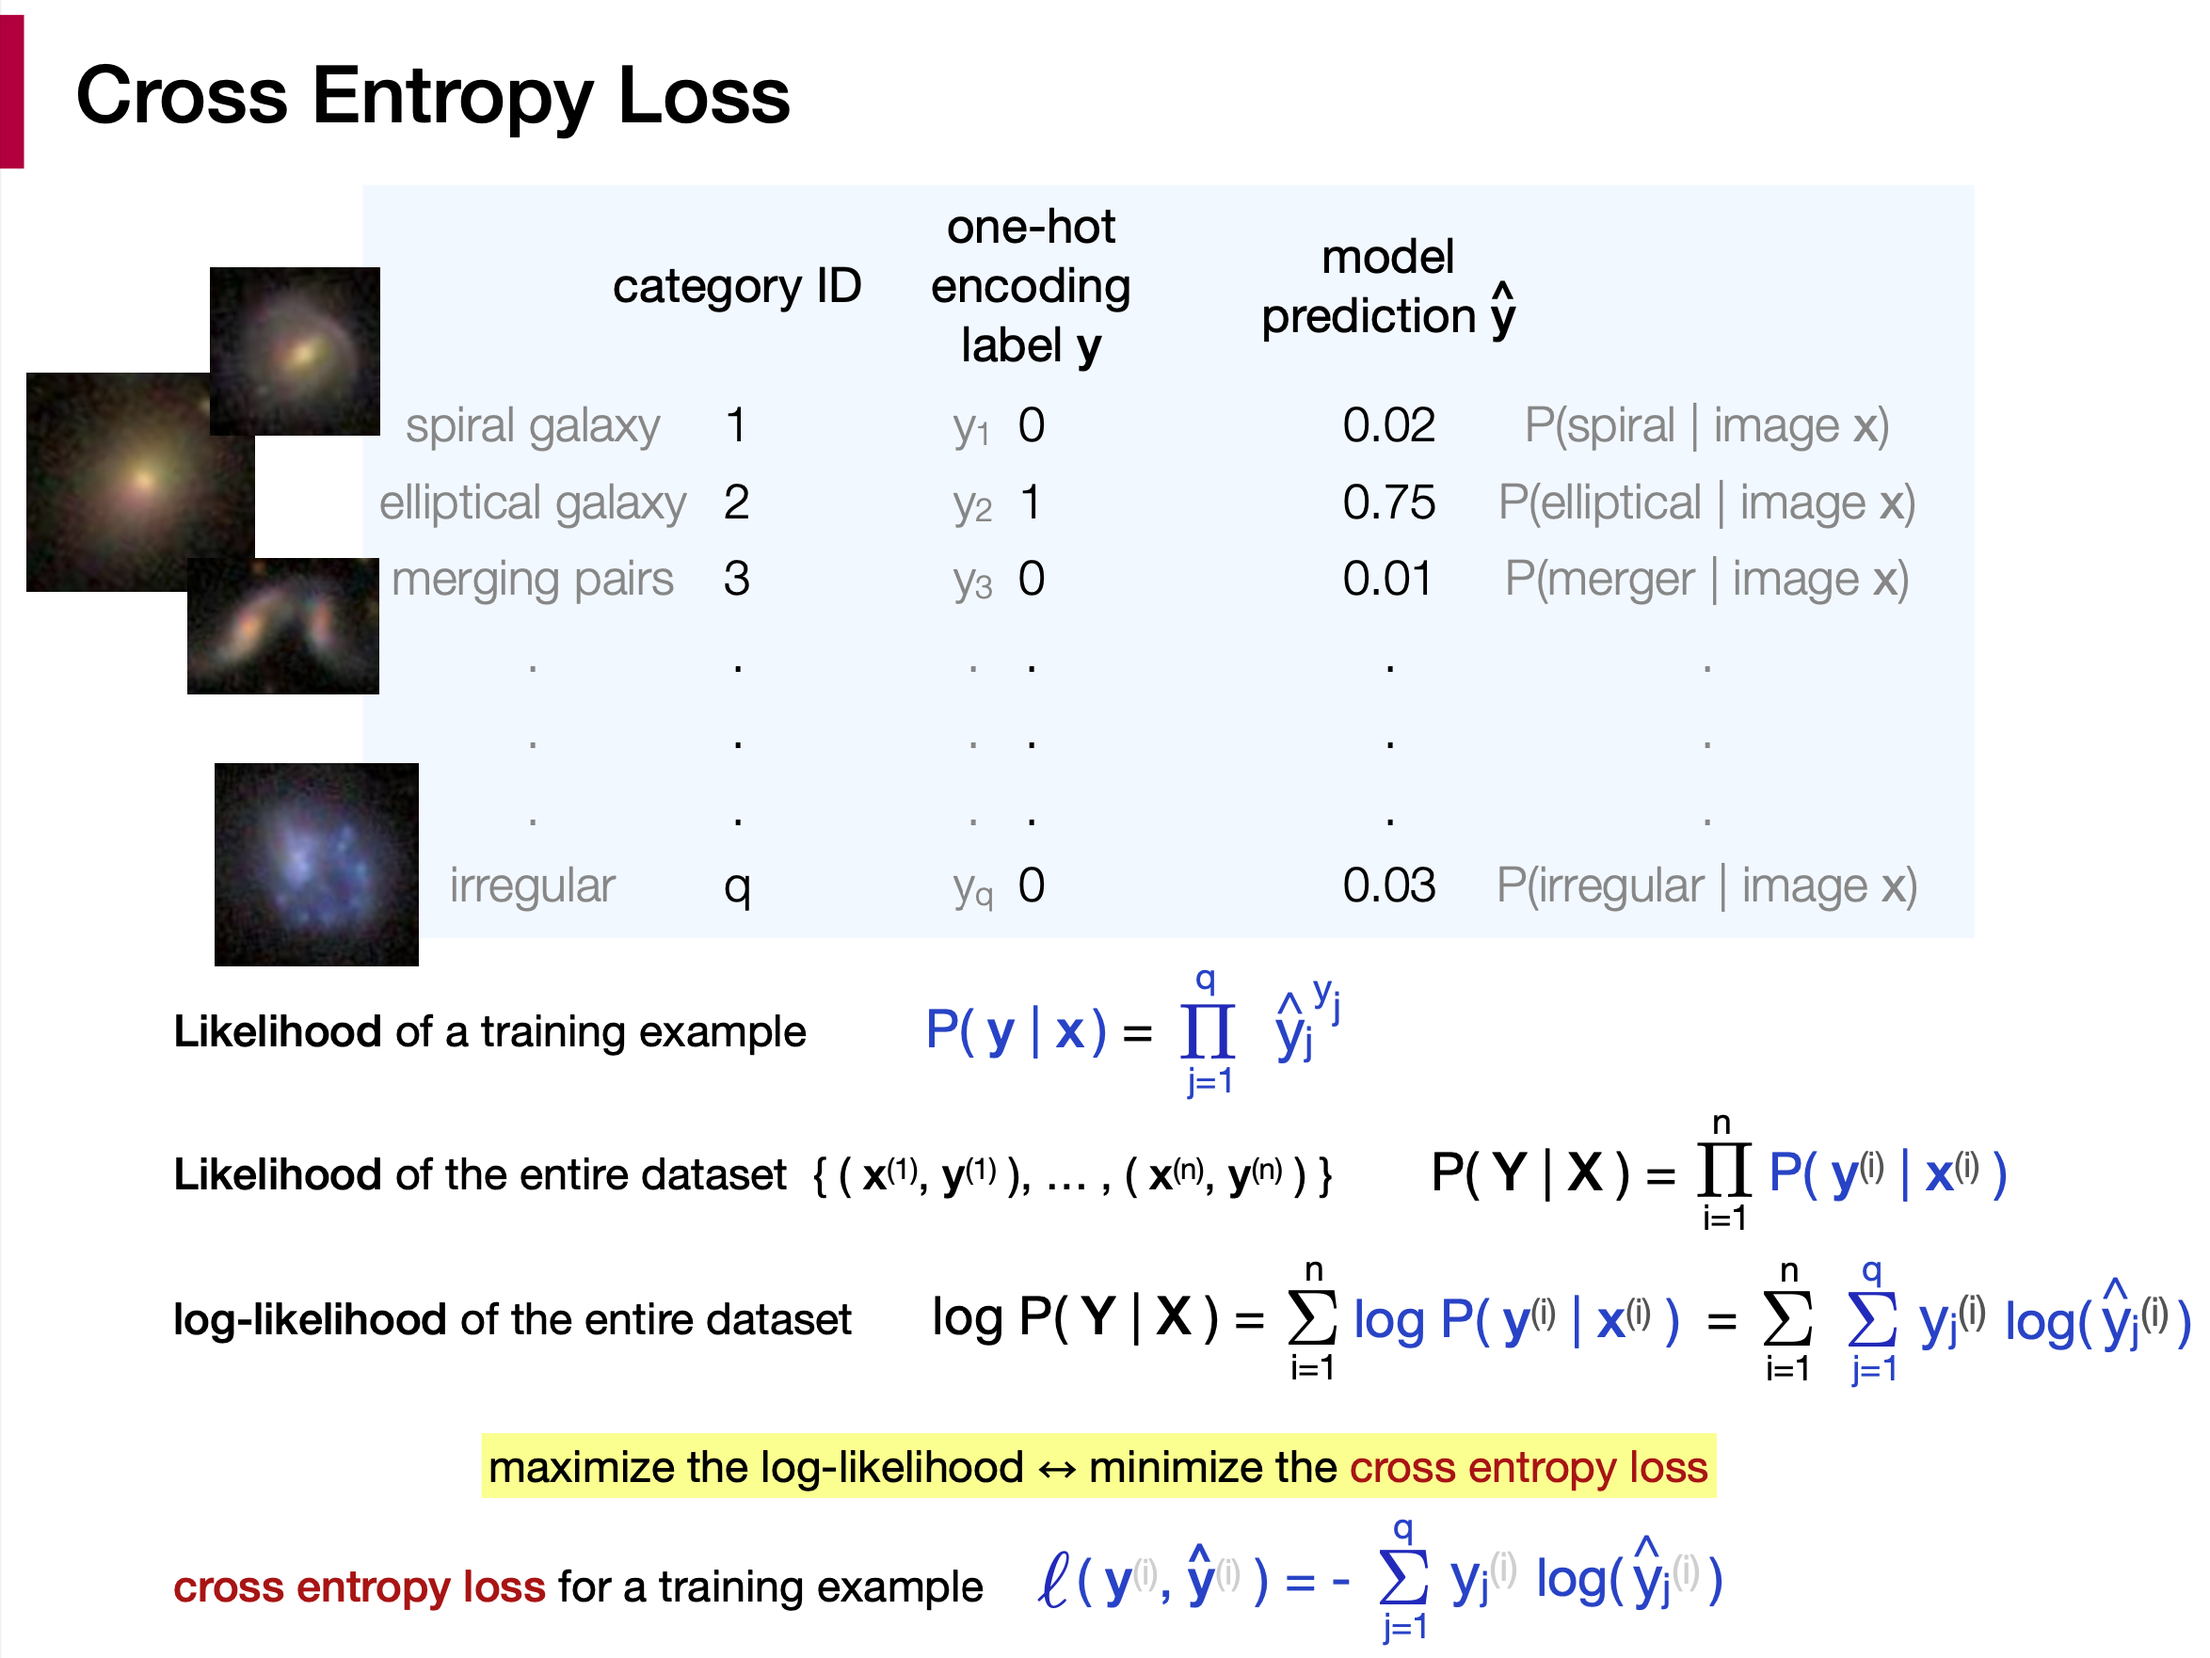
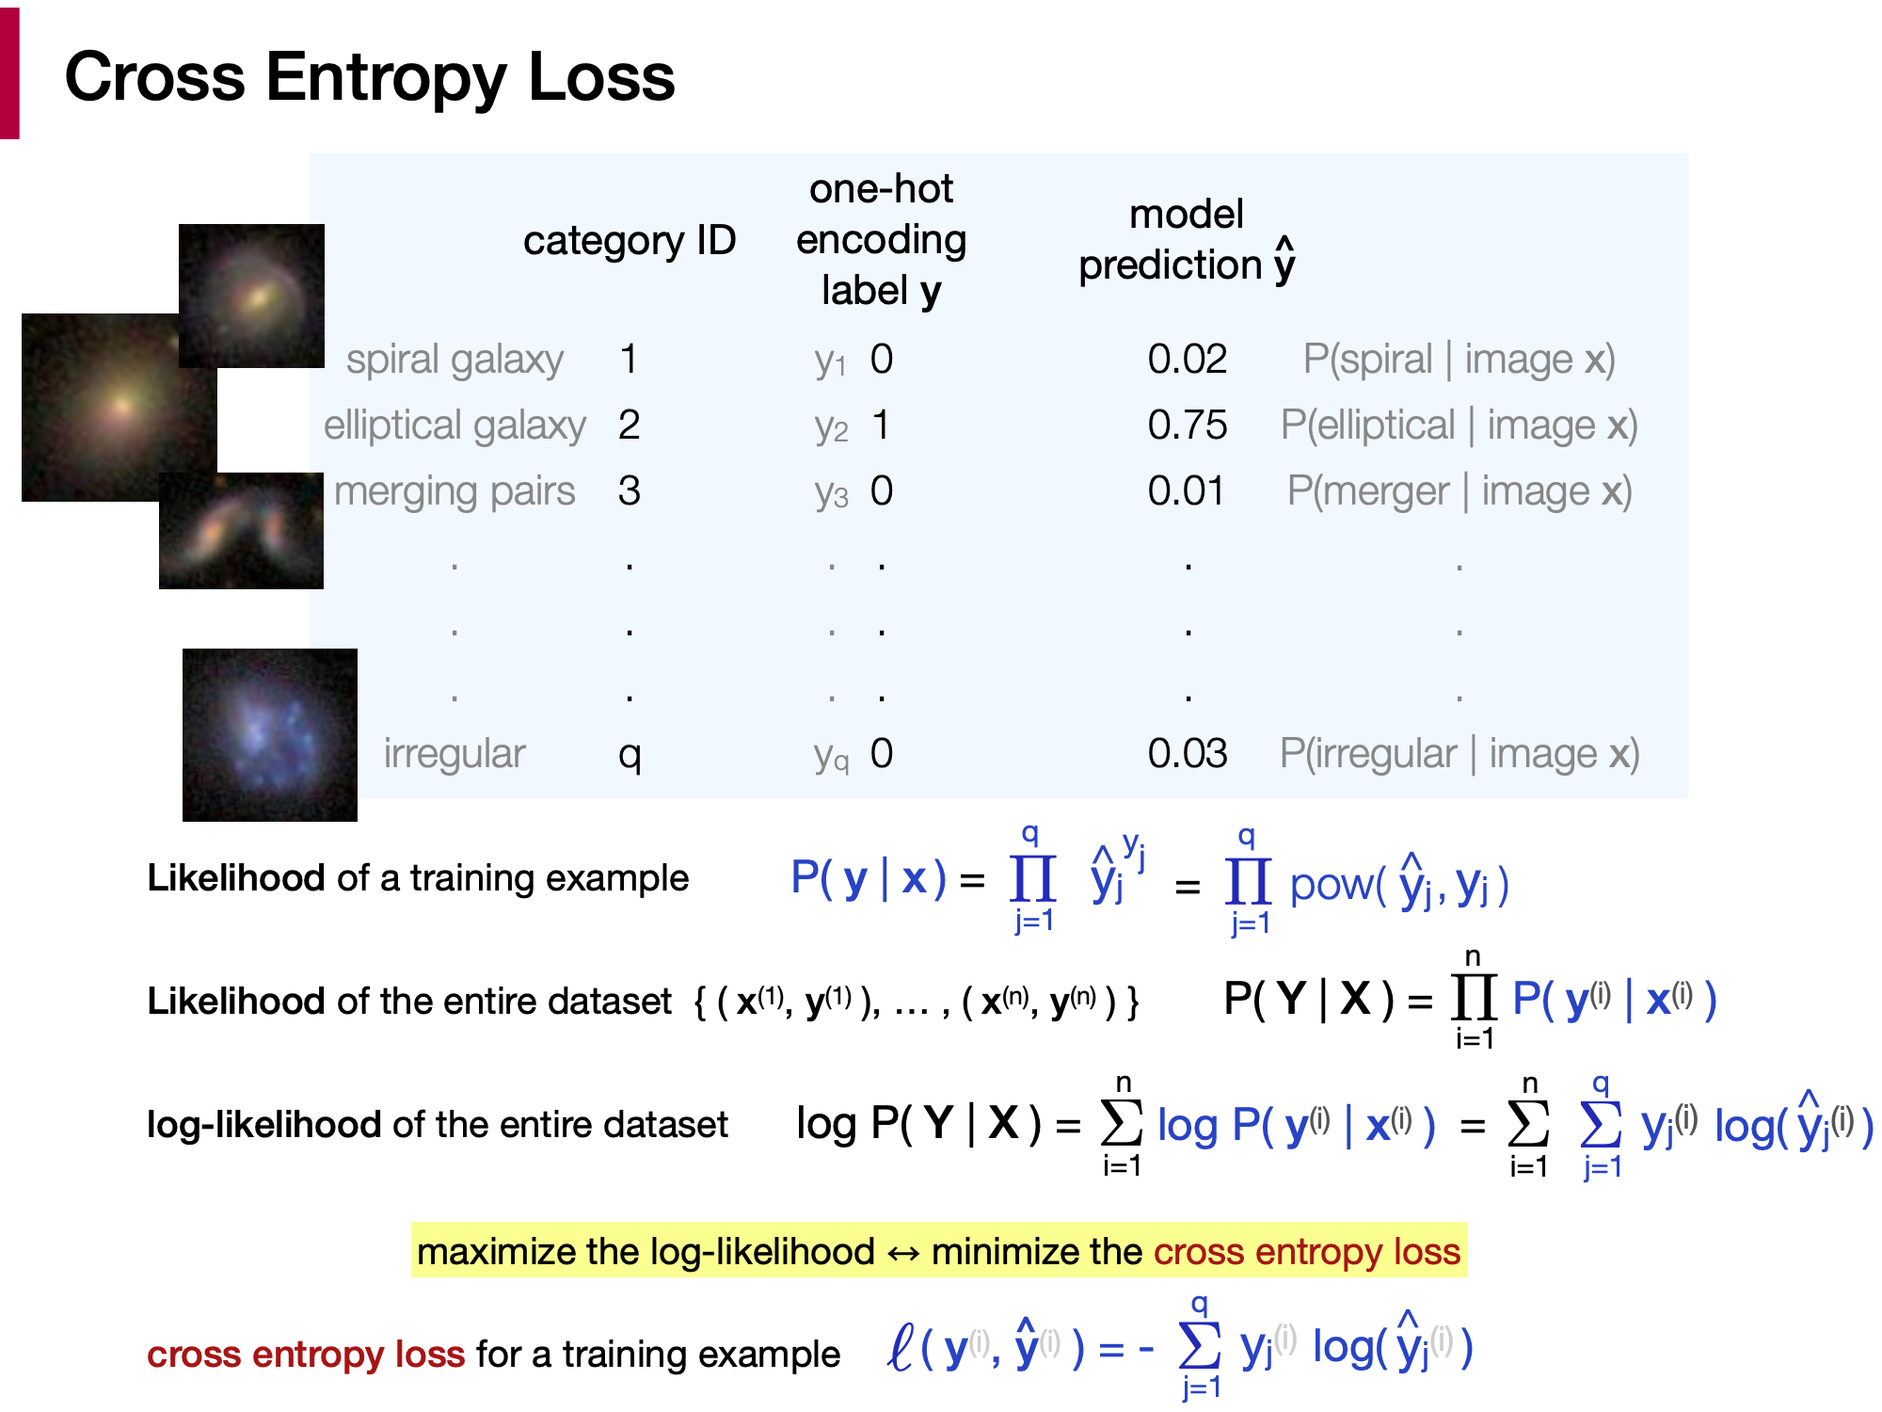
d2l ch3.4 update

diff --git a/d2l_brief/3.4_softmax-regression.md b/d2l_brief/3.4_softmax-regression.md
@@ -4,14 +4,15 @@
 
 **Ways to represent categorical or discrete target variable  y** <br>
 
-
 - Label encoding <br>
-  e.g. Hand-written digits  <br>
-y ∈ { 0, 1, 2, 3, 4, 5, 6, 7, 8, 9 }
+  e.g. size prediction : small, medium, large <br>
+  y ∈ {1, 2, 3}
 
 - **One-hot encoding**  <br>
-e.g. y ∈ {(1,0,0), (0,1,0), (0,0,1)} <br>
+  e.g. y ∈ {(1,0,0), (0,1,0), (0,0,1)} <br>
     Useful expression when there's no natural ordering on the categorical target variables. 
+
+  e.g. Hand-written digits : 0, 1, 2, 3, 4, 5, 6, 7, 8, 9 <br>
 
 ## 2. Network Architecture
 
@@ -34,7 +35,15 @@ How many parameters are there in this network structure?
 
 ## 4. Softmax Operation
 
+- **Softmax converts logits into probabilities.** 
+
 <img src='./images/eq_3.4.3.png' width='600'/>
+
+
+- Recall : Logistic Regression with 2 class labels (y=0 or 1). <br>
+<img src='./images/slide_logistic_regression.png' width='800'/>
+
+- Softmax function is an extension of the sigmoid function to the multiclass classification problem (see details [here](https://stats.stackexchange.com/questions/233658/softmax-vs-sigmoid-function-in-logistic-classifier).). 
 
 ## 5. Vectorization for Minibatches
 
@@ -49,6 +58,40 @@ How many parameters are there in this network structure?
 
 ## 6. Cross Entropy Loss Function for Softmax Regression
 
-<img src='./images/slide_cross_entropy_loss.png' width='800'/>
+<img src='./images/slide_cross_entropy_loss.png' width='800'/> <br>
+
+&emsp; <sub> * Let pow(0,0)=1 for likelihood of a training example. ([Wiki: Zero to the power of zero](https://en.wikipedia.org/wiki/Zero_to_the_power_of_zero))  
 
 ## 7. Information Theory Basics (Optional)
+
+**Entropy : measures how unpredictible a probability distribution is.**  <br>
+<img src='./images/eq_3.4.11.png' width='500'/> <br>
+e.g. For a galaxy classification task with 3 different class labels for **Elliptical**, **Spiral**, and **Irregular** galaxies. <br>
+
+- For a 100% certain elliptical galaxy, it's one-hot label would be y_clear = [1, 0, 0] <br>
+  Entropy(y_clear) = 0 
+
+- For a very vague galaxy image, it's one-hot label y_vague could be [0.33, 0.33, 0.33] <br>
+  Entropy(y_vague) = log(3)  &emsp;   <- high entropy
+
+
+**Cross-Entropy = entropy + KL divergence** <br>
+&emsp;  **H(P, Q) = H(P) + D_KL( P || Q )** <br>
+&emsp;  Let P = **y** (true label) &ensp; and &ensp; Q = **ŷ** (predicted label). <br>
+&emsp; If H(**y**) = 0, &emsp; (assume each image can only be classified into 1 catagory with 100% probability) <br>
+&emsp; We have : **H(y, ŷ) = D_KL( y || ŷ )** <br>
+&emsp; i.e. → Minimizing the cross-entropy loss is equivalent to minimizing the KL divergence 
+
+ &emsp; <sub> * The one-hot vector **y** can be viewed as a (discrete) probability distribution ( ∵ Σ y_j = 1  &emsp; j=1, 2, ... q for each catagory ID ).
+
+ &emsp; <sub> * Nice blog post : https://towardsdatascience.com/entropy-cross-entropy-and-kl-divergence-explained-b09cdae917a
+
+## 9. Summary
+
+### Cross-entropy minimization
+
+ - Maximizing the likelihood with respect to the modeling parameters is the same as minimizing the cross-entropy loss.
+
+- Information theory point of view : Minimizing the cross-entropy loss is equivalent to minimizing the KL divergence between the true target distribution (**y**) and the predicted class distribution (**ŷ**).
+  
+ 
